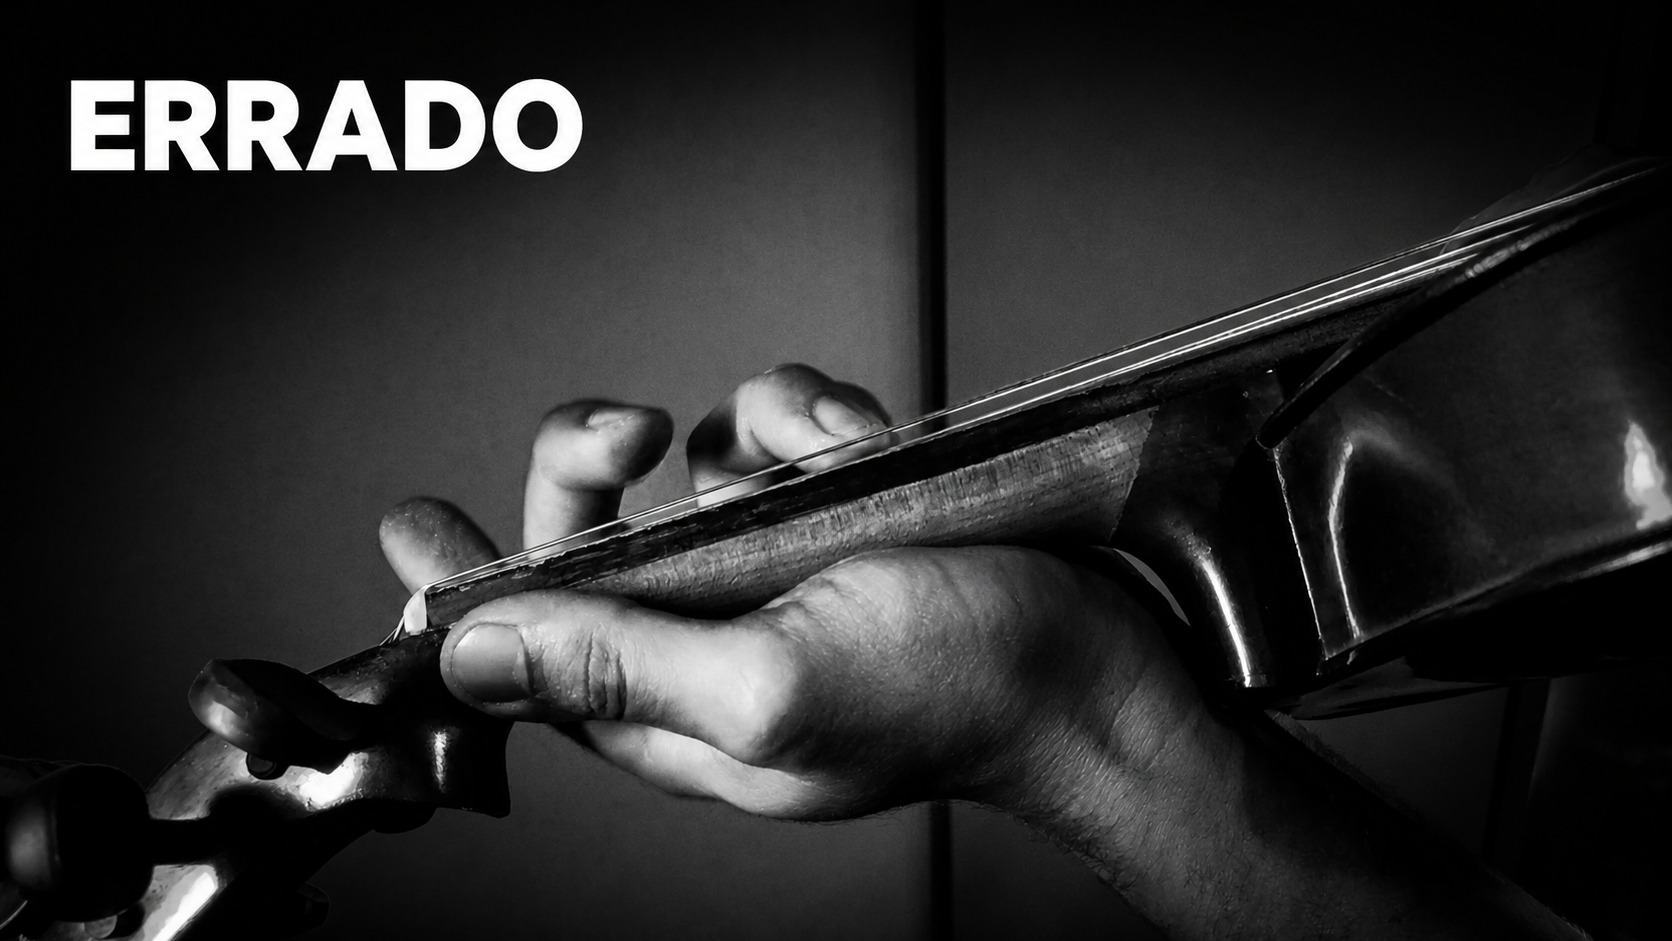
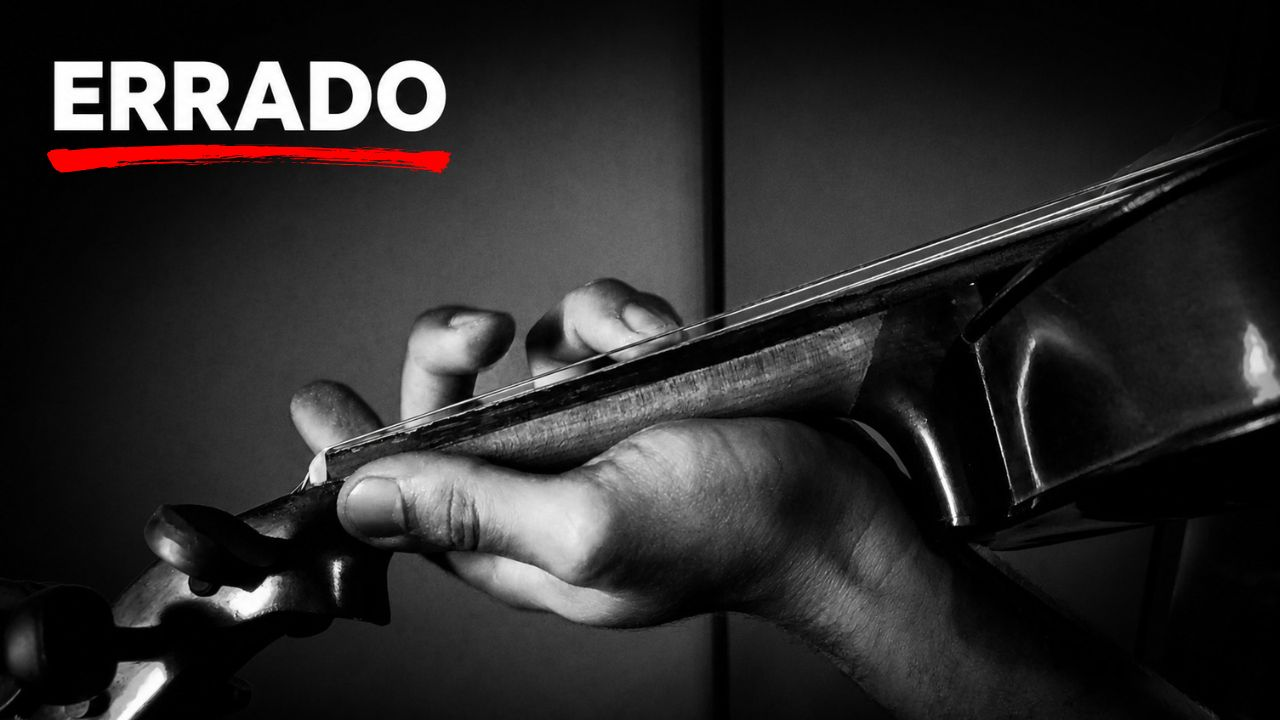
Add files via upload

Changed region(s): [[0.0312, 0.1833, 0.375, 0.2444]]

diff --git a/index.html b/index.html
@@ -5,6 +5,7 @@
   <meta name="viewport" content="width=device-width, initial-scale=1.0">
   <title>3 Pilares da Viola</title>
   <meta name="description" content="Aprenda os 3 pilares essenciais para tocar os hinos com segurança na viola.">
+  <link rel="icon" type="image/png" href="./3-pilares-violista.png" />
   
   <!-- Preconnect and Load Google Fonts (Inter and Outfit) -->
   <link rel="preconnect" href="https://fonts.googleapis.com">

diff --git a/politicas.html b/politicas.html
@@ -4,6 +4,7 @@
   <meta charset="UTF-8">
   <meta name="viewport" content="width=device-width, initial-scale=1.0">
   <title>Políticas de Privacidade e Termos de Uso — Os 3 Pilares do Violista CCB</title>
+  <link rel="icon" type="image/png" href="./3-pilares-violista.png" />
   
   <!-- Preconnect and Load Google Fonts -->
   <link rel="preconnect" href="https://fonts.googleapis.com">
